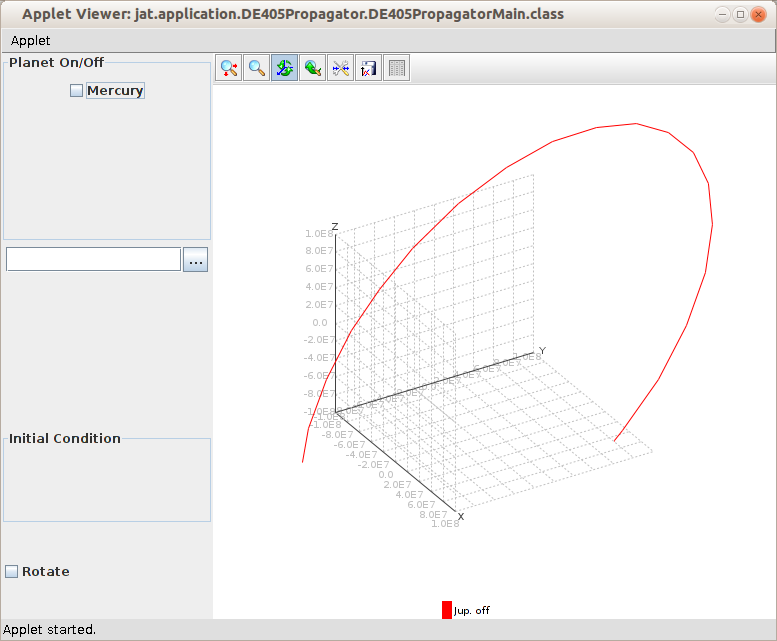
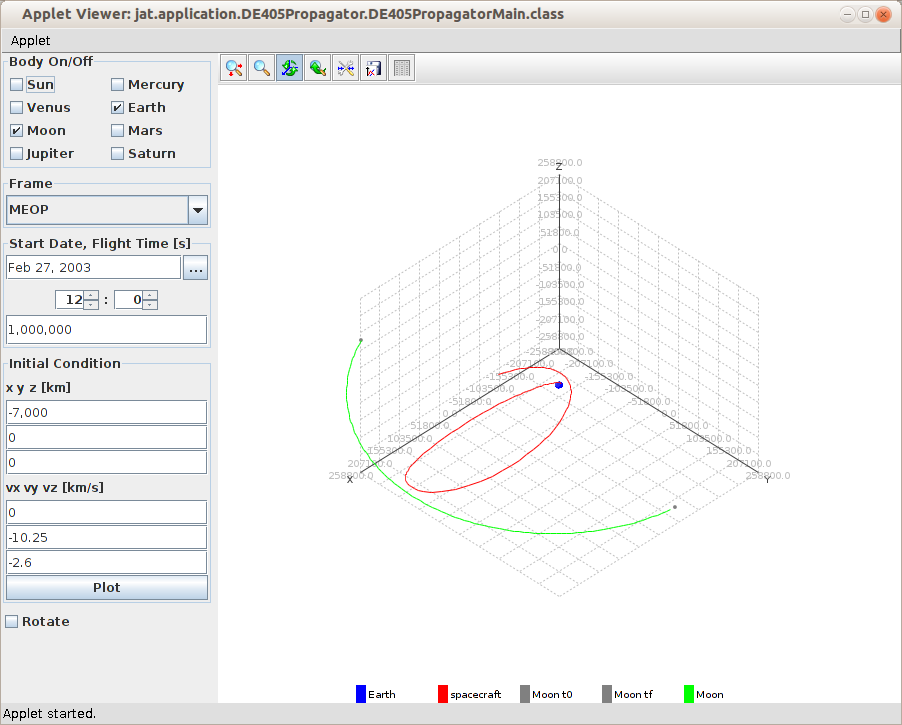
earth moon

diff --git a/src/jat/application/DE405Propagator/DE405PropagatorPlot.java b/src/jat/application/DE405Propagator/DE405PropagatorPlot.java
@@ -19,6 +19,7 @@ package jat.application.DE405Propagator;
 
 import jat.core.ephemeris.DE405Body.body;
 import jat.core.ephemeris.DE405Plus;
+import jat.core.ephemeris.EphemerisPlotData;
 import jat.core.plot.plot.Plot3DPanel;
 import jat.core.plot.plot.PlotPanel;
 import jat.core.plot.plot.plots.LinePlot;
@@ -31,7 +32,6 @@ import java.util.ArrayList;
 import javax.swing.JPanel;
 
 import org.apache.commons.lang3.ArrayUtils;
-import org.apache.commons.math3.geometry.euclidean.threed.Vector3D;
 import org.apache.commons.math3.ode.FirstOrderDifferentialEquations;
 import org.apache.commons.math3.ode.FirstOrderIntegrator;
 import org.apache.commons.math3.ode.nonstiff.DormandPrince853Integrator;
@@ -126,11 +126,18 @@ public class DE405PropagatorPlot extends JPanel {
 
 		// addPoint(plot, "Sun", java.awt.Color.ORANGE, SunPos.x[0],
 		// SunPos.x[1], SunPos.x[2]);
-		addPoint(plot, "Moon", java.awt.Color.GRAY, MoonPost0.x[0], MoonPost0.x[1], MoonPost0.x[2]);
+		addPoint(plot, "Moon t0", java.awt.Color.GRAY, MoonPost0.x[0], MoonPost0.x[1], MoonPost0.x[2]);
 		addPoint(plot, "Moon tf", java.awt.Color.GRAY, MoonPostf.x[0], MoonPostf.x[1], MoonPostf.x[2]);
 		// addPoint(plot, "Earth", java.awt.Color.MAGENTA, EarthPos.x[0],
 		// EarthPos.x[1], EarthPos.x[2]);
 
+		EphemerisPlotData epd=new EphemerisPlotData(dpMain.dpParam.Eph,body.MOON,dpMain.dpParam.simulationDate,dpParam.tf,100);		
+		LinePlot lMoon = new LinePlot("Moon", Color.green, epd.XYZ);
+		lMoon.closed_curve = false;
+		plot.addPlot(lMoon);
+		
+		
+		
 	}
 
 	double[][] getXYZforPlot(ArrayList<Double> xsol, ArrayList<Double> ysol, ArrayList<Double> zsol) {
@@ -147,13 +154,8 @@ public class DE405PropagatorPlot extends JPanel {
 			plotBounds=Math.max(plotBounds, Math.abs(XYZ[i][0]));
 			plotBounds=Math.max(plotBounds, Math.abs(XYZ[i][1]));
 			plotBounds=Math.max(plotBounds, Math.abs(XYZ[i][2]));
-			
-//			if (Math.abs(XYZ[i][0]) > plotBounds)
-//				plotBounds = Math.abs(XYZ[i][0]);
-
-		
 		}
-
+		plotBounds/=1.5;
 		return XYZ;
 	}
 

diff --git a/src/jat/core/ephemeris/EphemerisPlotData.java b/src/jat/core/ephemeris/EphemerisPlotData.java
@@ -1,0 +1,73 @@
+/* JAT: Java Astrodynamics Toolkit
+ * 
+  Copyright 2012 Tobias Berthold
+
+   Licensed under the Apache License, Version 2.0 (the "License");
+   you may not use this file except in compliance with the License.
+   You may obtain a copy of the License at
+
+       http://www.apache.org/licenses/LICENSE-2.0
+
+   Unless required by applicable law or agreed to in writing, software
+   distributed under the License is distributed on an "AS IS" BASIS,
+   WITHOUT WARRANTIES OR CONDITIONS OF ANY KIND, either express or implied.
+   See the License for the specific language governing permissions and
+   limitations under the License.
+ */
+
+package jat.core.ephemeris;
+
+import jat.core.ephemeris.DE405Body.body;
+import jat.core.spacetime.TimeAPL;
+import jat.coreNOSA.math.MatrixVector.data.VectorN;
+
+import java.awt.Color;
+import java.io.IOException;
+
+/**
+ * @author Tobias Berthold
+ * 
+ */
+public class EphemerisPlotData {
+	float size;
+	DE405Plus myEph;
+	body body;
+	double jd;
+	int steps;
+	int seconds;
+	Color Color = java.awt.Color.GRAY;
+	TimeAPL startTime;
+	public double[][] XYZ;
+
+	public EphemerisPlotData(DE405Plus myEph, body body, TimeAPL startTime, double seconds, int steps) {
+		this.myEph = myEph;
+		this.body = body;
+		this.startTime = startTime;
+		this.seconds = (int) seconds;
+		this.steps = steps;
+		draw();
+	}
+
+	private void draw() {
+		XYZ = new double[steps][3];
+		VectorN r;
+		TimeAPL time = new TimeAPL(startTime.mjd_utc());
+		double step = seconds / steps;
+		try {
+			for (int k = 0; k < steps; k++) {
+
+				r = new VectorN(myEph.get_planet_pos(body, time));
+				// double x, y, z;
+				XYZ[k][0] = r.get(0);
+				XYZ[k][1] = r.get(1);
+				XYZ[k][2] = r.get(2);
+
+				time.step_seconds(step);
+				// time.println();
+			}
+		} catch (IOException e) {
+			e.printStackTrace();
+		}
+	}
+
+}

diff --git a/src/jat/application/DE405Propagator/scenario/earthMoonECI.java b/src/jat/application/DE405Propagator/scenario/earthMoonECI.java
@@ -18,21 +18,29 @@ public class earthMoonECI extends DE405PropagatorParameters {
 		//Frame = frame.ECI;
 		Frame = frame.MEOP;
 
-		simulationDate = new TimeAPL(2003, 3, 1, 12, 0, 0);
+		simulationDate = new TimeAPL(2003, 2, 27, 12, 0, 0);
 
 		// earth orbit to moon and back
-		y0[0] = 0;
-		y0[1] = 7000.;
+		y0[0] = -7000.;
+		y0[1] = 0.;
 		y0[2] = 0;
-		y0[3] = -10.47;
-		y0[4] = 0;
-		y0[5] = -1.5;
-		tf = 10000000.;
-		//tf = 60*60;
+		y0[3] = 0.;
+		y0[4] = -10.25;
+		y0[5] = -2.6;
+		tf = 1000000.;
 
 	}
 
 }
+
+//y0[0] = 0;
+//y0[1] = 7000.;
+//y0[2] = 0;
+//y0[3] = -10.47;
+//y0[4] = 0;
+//y0[5] = -1.5;
+//tf = 1000000.;
+
 //y0[0] = 0;
 //y0[1] = 6927;
 //y0[2] = 3839.69;
